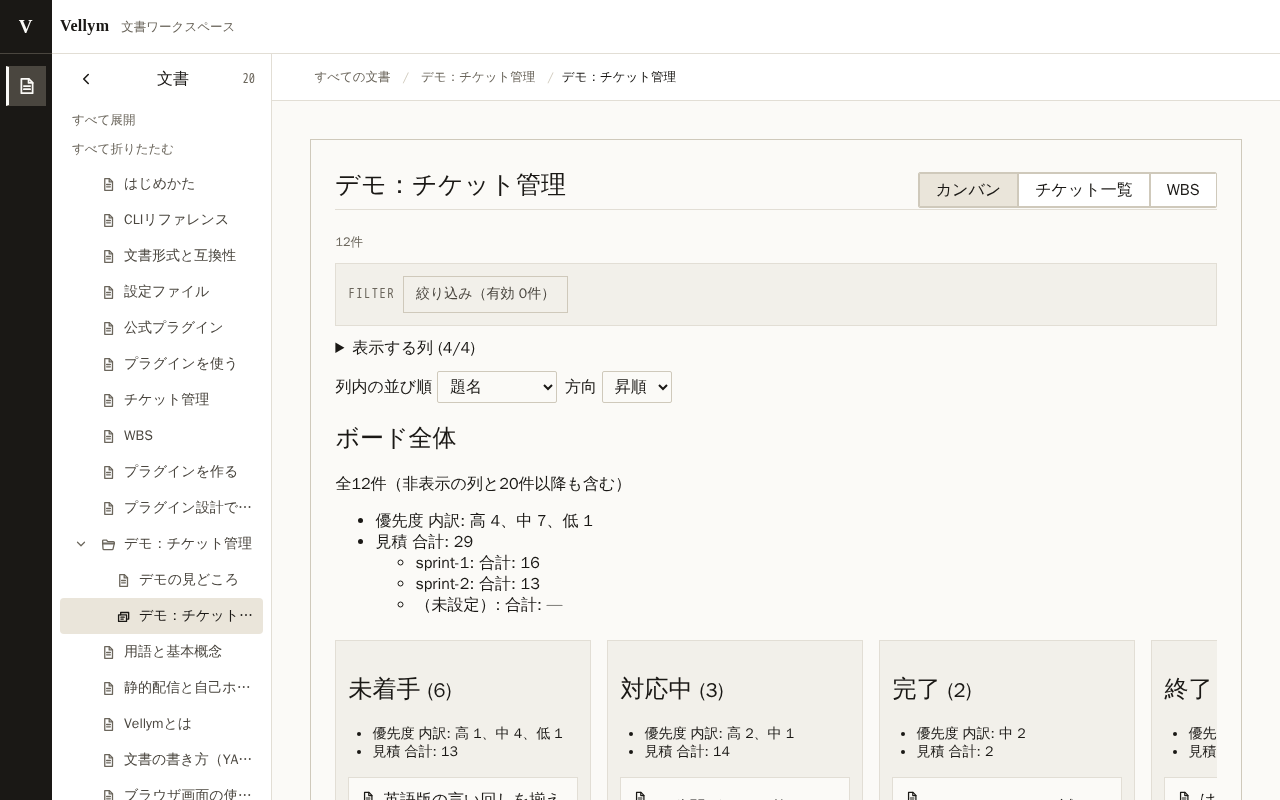
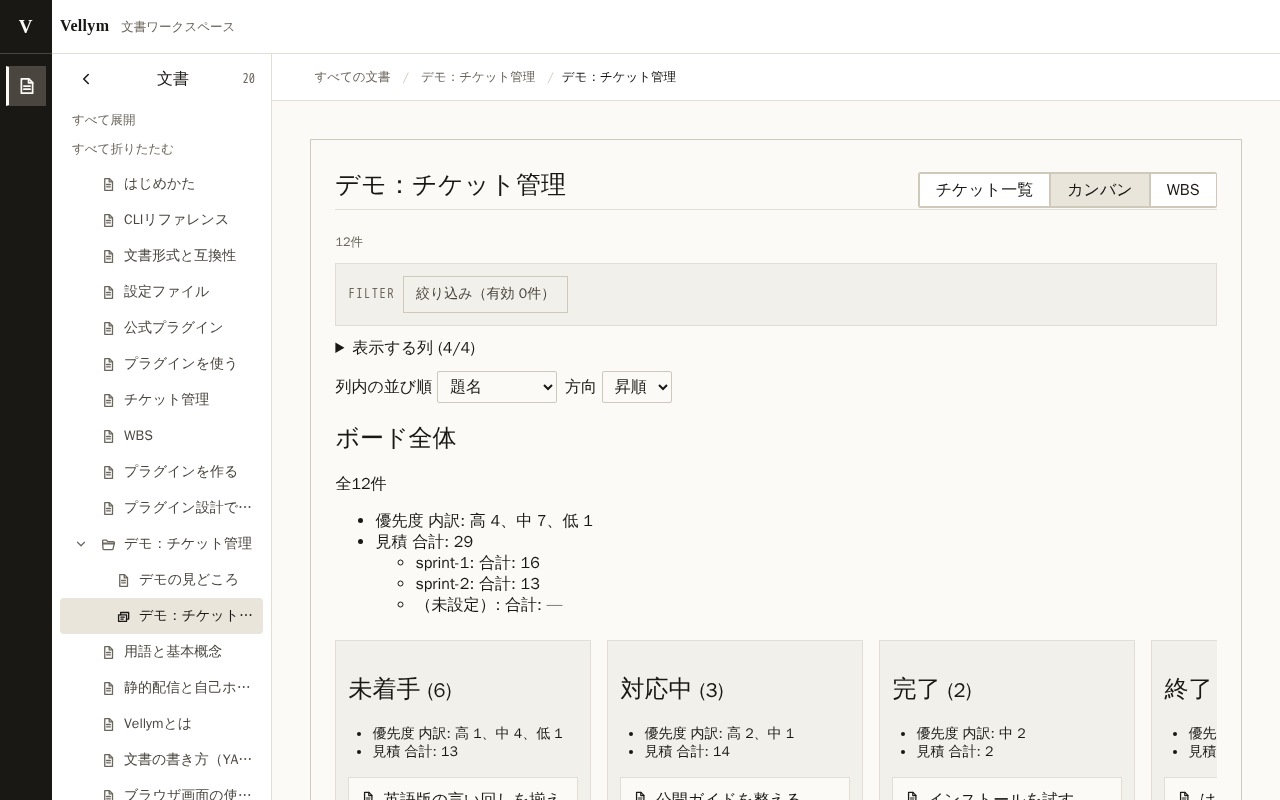
chore(release): prepare 0.5.1-beta
- vellym 0.5.1-beta; @vellym/plugin-api, tickets, kanban, wbs 0.3.0-beta
- CHANGELOG, README status, plugin guide versions, README screenshots
- release:check: match engines.vellym with includePrerelease like the
  host plugin loader, and check the dist-tag only on `init` commands
  (later commands run the version pinned by init)

Ticket: ticket-01m83release05100000000001

diff --git a/tests/release-compatibility.test.ts b/tests/release-compatibility.test.ts
@@ -55,10 +55,10 @@ describe("public plugin host compatibility", () => {
 
   it("requires the released plugin-api version from every public plugin", () => {
     const api = manifestOf("plugin-api").version;
-    expect(api).toBe("0.2.0-beta");
+    expect(api).toBe("0.3.0-beta");
     for (const directory of pluginPackages) {
       expect(semver.satisfies(api, manifestOf(directory).peerDependencies?.["@vellym/plugin-api"] ?? "")).toBe(true);
-      expect(semver.satisfies("0.1.0-beta", manifestOf(directory).peerDependencies?.["@vellym/plugin-api"] ?? "")).toBe(false);
+      expect(semver.satisfies("0.2.0-beta", manifestOf(directory).peerDependencies?.["@vellym/plugin-api"] ?? "")).toBe(false);
     }
   });
 

diff --git a/packages/vellym/README.md b/packages/vellym/README.md
@@ -121,6 +121,8 @@ Vellym currently provides `init`, `dev`, `validate`, `list`, `build`, and `migra
 - Images: insert from the editor, store in an images folder, validate references, and copy them into static output ([guide](https://vellym.tasclub.com/en/pages/images/))
 - [`@vellym/kanban`](https://www.npmjs.com/package/@vellym/kanban) (Kanban board) and [`@vellym/wbs`](https://www.npmjs.com/package/@vellym/wbs) (work breakdown with a date timeline)
 
+`0.5.1-beta` improves WBS breakdown operations and AI entry points, and adds Tracker conditional rules and validation of links to repository files in content.
+
 Additional block types and presets are not implemented. Pull, merge, and branch operations stay on the command line. The `v1` contract may still change before RC.
 
 ## License
@@ -248,6 +250,8 @@ plugins:
 - 画面からの変更の確認・コミット・プッシュと、文書ごとの履歴と差分（[利用ガイド](https://vellym.tasclub.com/pages/changes-and-history/)）
 - 画像: 編集画面からの挿入、画像フォルダへの保存、参照の検証、静的出力へのコピー（[利用ガイド](https://vellym.tasclub.com/pages/images/)）
 - [`@vellym/kanban`](https://www.npmjs.com/package/@vellym/kanban)（カンバン）と [`@vellym/wbs`](https://www.npmjs.com/package/@vellym/wbs)（日程つきのWBS）
+
+0.5.1-betaではWBSの分解操作とAI向けの入口を改善し、Trackerの条件ルールと本文からリポジトリ内ファイルへのリンクの検査を追加した。
 
 追加ブロック、preset は未実装。pull・マージ・ブランチの操作はコマンドラインで行う。`v1`契約はRCまで変更される可能性がある。
 

diff --git a/CHANGELOG.md b/CHANGELOG.md
@@ -10,16 +10,18 @@ beta版のあいだは、文書形式・CLI・Plugin APIに破壊的変更が入
 
 ## [Unreleased]
 
+## [0.5.1-beta] - 2026-11-23
+
 ### 追加
 
 - `vellym init`でcontent rootに人とAI向けの`VELLYM.md`を生成する。
 - プラグイン画面からドラフトを開かずリソースを作成できる。
 - TicketTrackerに条件ルールを宣言し、違反を警告できる。
-
 - 本文のリポジトリ内ファイルへの相対リンクを`validate`と`build`で検査する。
 
 ### 変更
 
+- `@vellym/plugin-api`を0.3.0-beta（`createResourceNow`）に更新し、公式プラグインを0.3.0-betaにした。
 - WBSの行メニューでチケットを字下げ・字上げし、ボタンとTab操作で階層を組み替えられる。
 - WBSで題名と任意の詳細列を入力し、画面を移らず最上位・子チケットを連続追加できる。
 - npmのREADME、CLI、公開サイトからAI向け案内と利用ガイドを見つけられるようにした。
